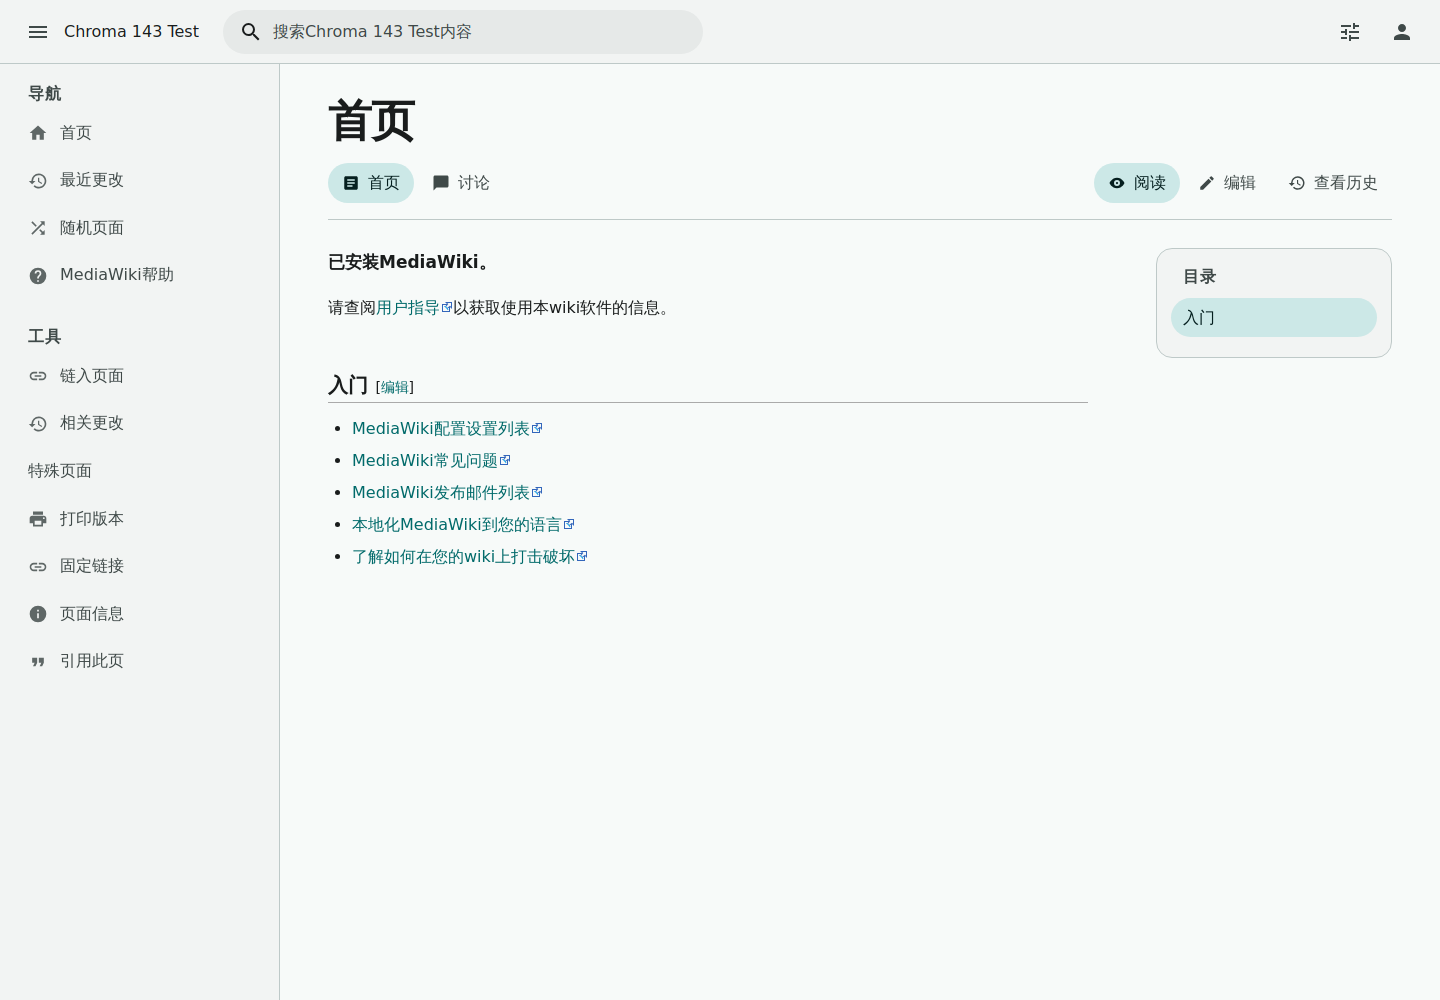
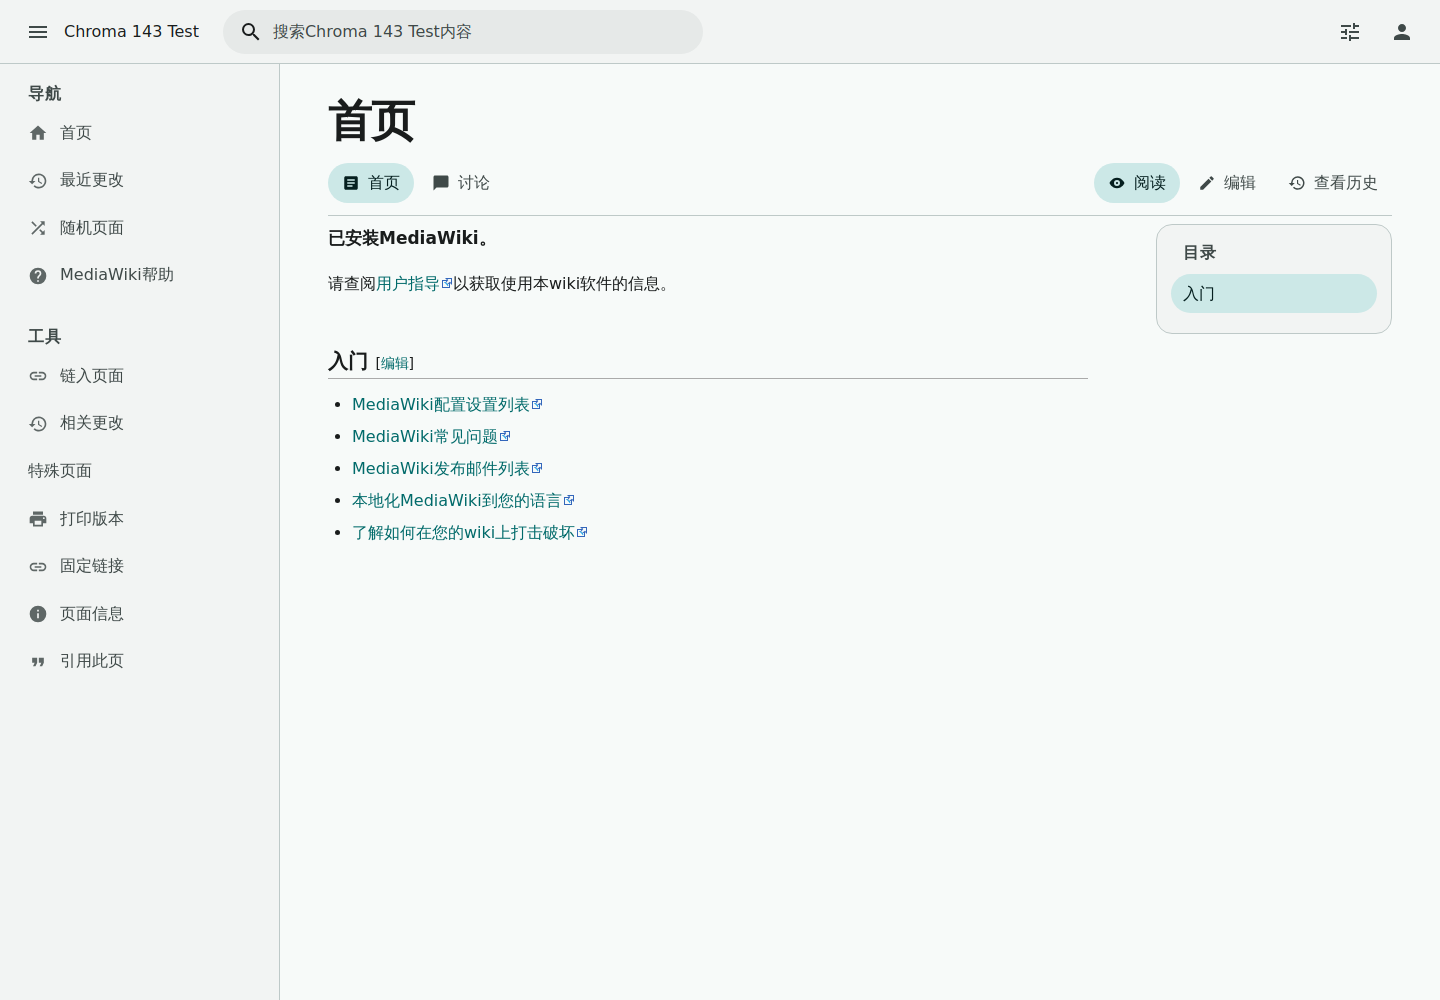
design: tighten page header spacing and single-row mobile toolbar

Changed region(s): [[0.2188, 0.341, 0.4062, 0.558], [0.8125, 0.217, 0.9688, 0.341], [0.2188, 0.217, 0.4688, 0.31]]

diff --git a/resources/styles/base.css b/resources/styles/base.css
@@ -1176,3 +1176,35 @@ body[data-chroma-theme="dark"] { color-scheme: dark; }
 	}
 	.chroma-page__toolbar .chroma-tabs--views li a::before { width: 22px; height: 22px; }
 }
+
+/* header rhythm: no dead band between toolbar and content */
+.chroma-page__header {
+	padding-block-end: 12px;
+	margin-block-end: 12px;
+}
+.chroma-page__body { padding-block-start: 12px; }
+.chroma-prose pre,
+.chroma-prose .mw-highlight {
+	width: 100%;
+	max-width: 100%;
+	margin-inline: 0;
+}
+
+@media (max-width: 720px) {
+	.chroma-page__header { padding-block-end: 10px; margin-block-end: 12px; }
+	.chroma-page__toolbar {
+		flex-wrap: nowrap;
+		align-items: center;
+		gap: 6px;
+	}
+	.chroma-page__toolbar .chroma-tabs--views {
+		width: auto;
+		flex: 1 1 auto;
+		justify-content: flex-end;
+		overflow-x: auto;
+		margin-inline-start: 0;
+	}
+	.chroma-page__toolbar .chroma-tabs li a { padding-inline: 10px; }
+}
+.chroma-page__header { margin-block-end: 0; }
+.chroma-page__body { padding-block-start: 8px; }
